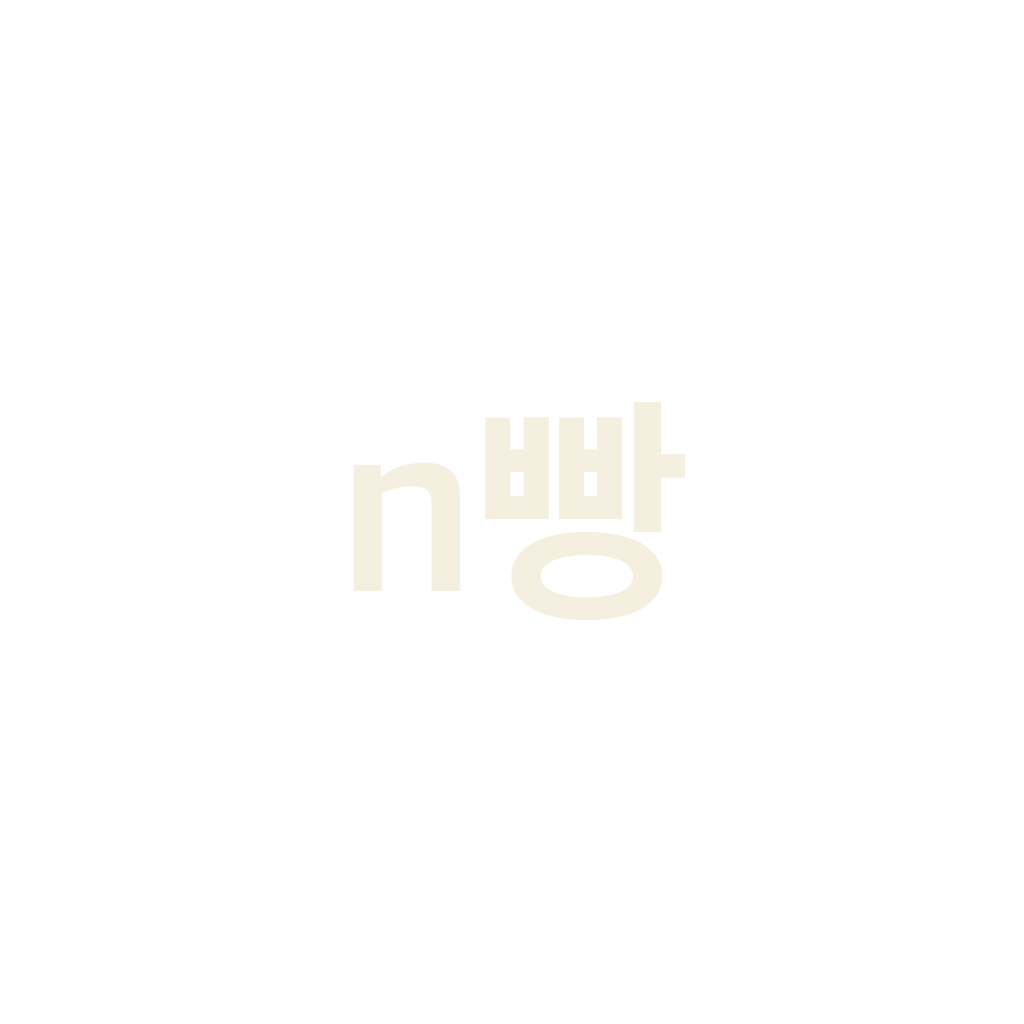
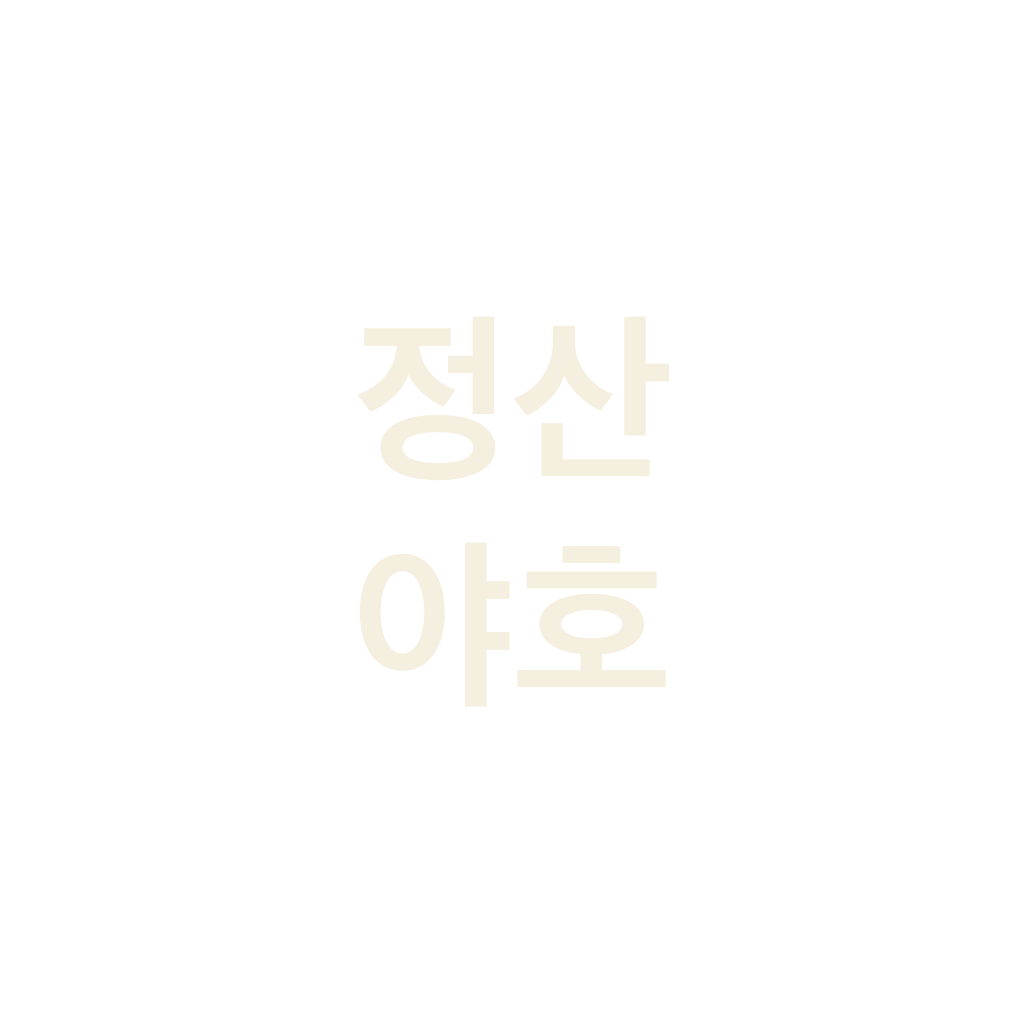
rebrand: 엔빵 → 정산야호
- 앱 표시명(app.json name), 홈 헤더 타이틀, README, 테마 주석
- 앱인토스: displayName 정산야호, appName jeongsan-yaho
  (딥링크 intoss://jeongsan-yaho, 콘솔 등록 시 동일하게)
- 아이콘·스플래시·adaptive 리브랜딩: 옵시디언 배경 + 아이보리
  2줄 워드마크(정산/야호)
- 유지: EAS slug 'nbbang'(프로젝트 연결 유지), 번들ID
  com.minheee.nbbang(변경 불가), GitHub repo명
- jeongsan-yaho.ait 빌드 확인, 테스트 121개

Changed region(s): [[0.3438, 0.3125, 0.6875, 0.6875]]

diff --git a/granite.config.ts b/granite.config.ts
@@ -2,13 +2,13 @@ import { defineConfig } from '@apps-in-toss/web-framework/config';
 
 /**
  * 앱인토스(Apps in Toss) 미니앱 설정.
- * 엔빵의 기존 Expo 웹 빌드(react-native-web)를 그대로 토스 웹뷰에 싣는다.
- * appName은 앱인토스 콘솔에 등록한 값과 반드시 일치해야 한다 (intoss://nbbang).
+ * 정산야호의 기존 Expo 웹 빌드(react-native-web)를 그대로 토스 웹뷰에 싣는다.
+ * appName은 앱인토스 콘솔에 등록한 값과 반드시 일치해야 한다 (intoss://jeongsan-yaho).
  */
 export default defineConfig({
-  appName: 'nbbang',
+  appName: 'jeongsan-yaho',
   brand: {
-    displayName: '엔빵',
+    displayName: '정산야호',
     // 옵시디언 — 앱 테마(웜 아이보리+옵시디언)의 강조색
     primaryColor: '#1A1A1A',
     icon: './assets/icon.png',

diff --git a/app/_layout.tsx b/app/_layout.tsx
@@ -19,7 +19,7 @@ export default function RootLayout() {
           contentStyle: { backgroundColor: colors.bg },
         }}
       >
-        <Stack.Screen name="index" options={{ title: '엔빵' }} />
+        <Stack.Screen name="index" options={{ title: '정산야호' }} />
         <Stack.Screen name="friends/index" options={{ title: '친구' }} />
         <Stack.Screen name="friends/[friendId]" options={{ title: '친구' }} />
         <Stack.Screen name="session/new" options={{ title: '새 모임' }} />

diff --git a/src/ui/theme.ts b/src/ui/theme.ts
@@ -1,5 +1,5 @@
 /**
- * 엔빵 디자인 토큰 — 웜 아이보리 + 옵시디언, 무채색 미니멀.
+ * 정산야호 디자인 토큰 — 웜 아이보리 + 옵시디언, 무채색 미니멀.
  * 색을 빼서 구조·타이포가 전면에 서게 한다. 강조는 짙은 옵시디언 하나로,
  * 돈을 보내야 하는 신호(보낼 돈·삭제)에만 절제된 브릭을 쓴다.
  */

diff --git a/README.md b/README.md
@@ -1,4 +1,4 @@
-# 엔빵 (nbbang)
+# 정산야호 (구 엔빵)
 
 모임·여행 정산 앱. 1차 카페 → 2차 밥 → 3차 술처럼 차수가 이어지고, 차수마다 결제한 사람이 다르고, 항목마다 먹은 사람이 달라도 최소 송금 횟수로 정산한다. 여행에서는 지출마다 통화가 달라도(현지 현금/카드) 원화로 환산해 한 번에 정산한다.
 
